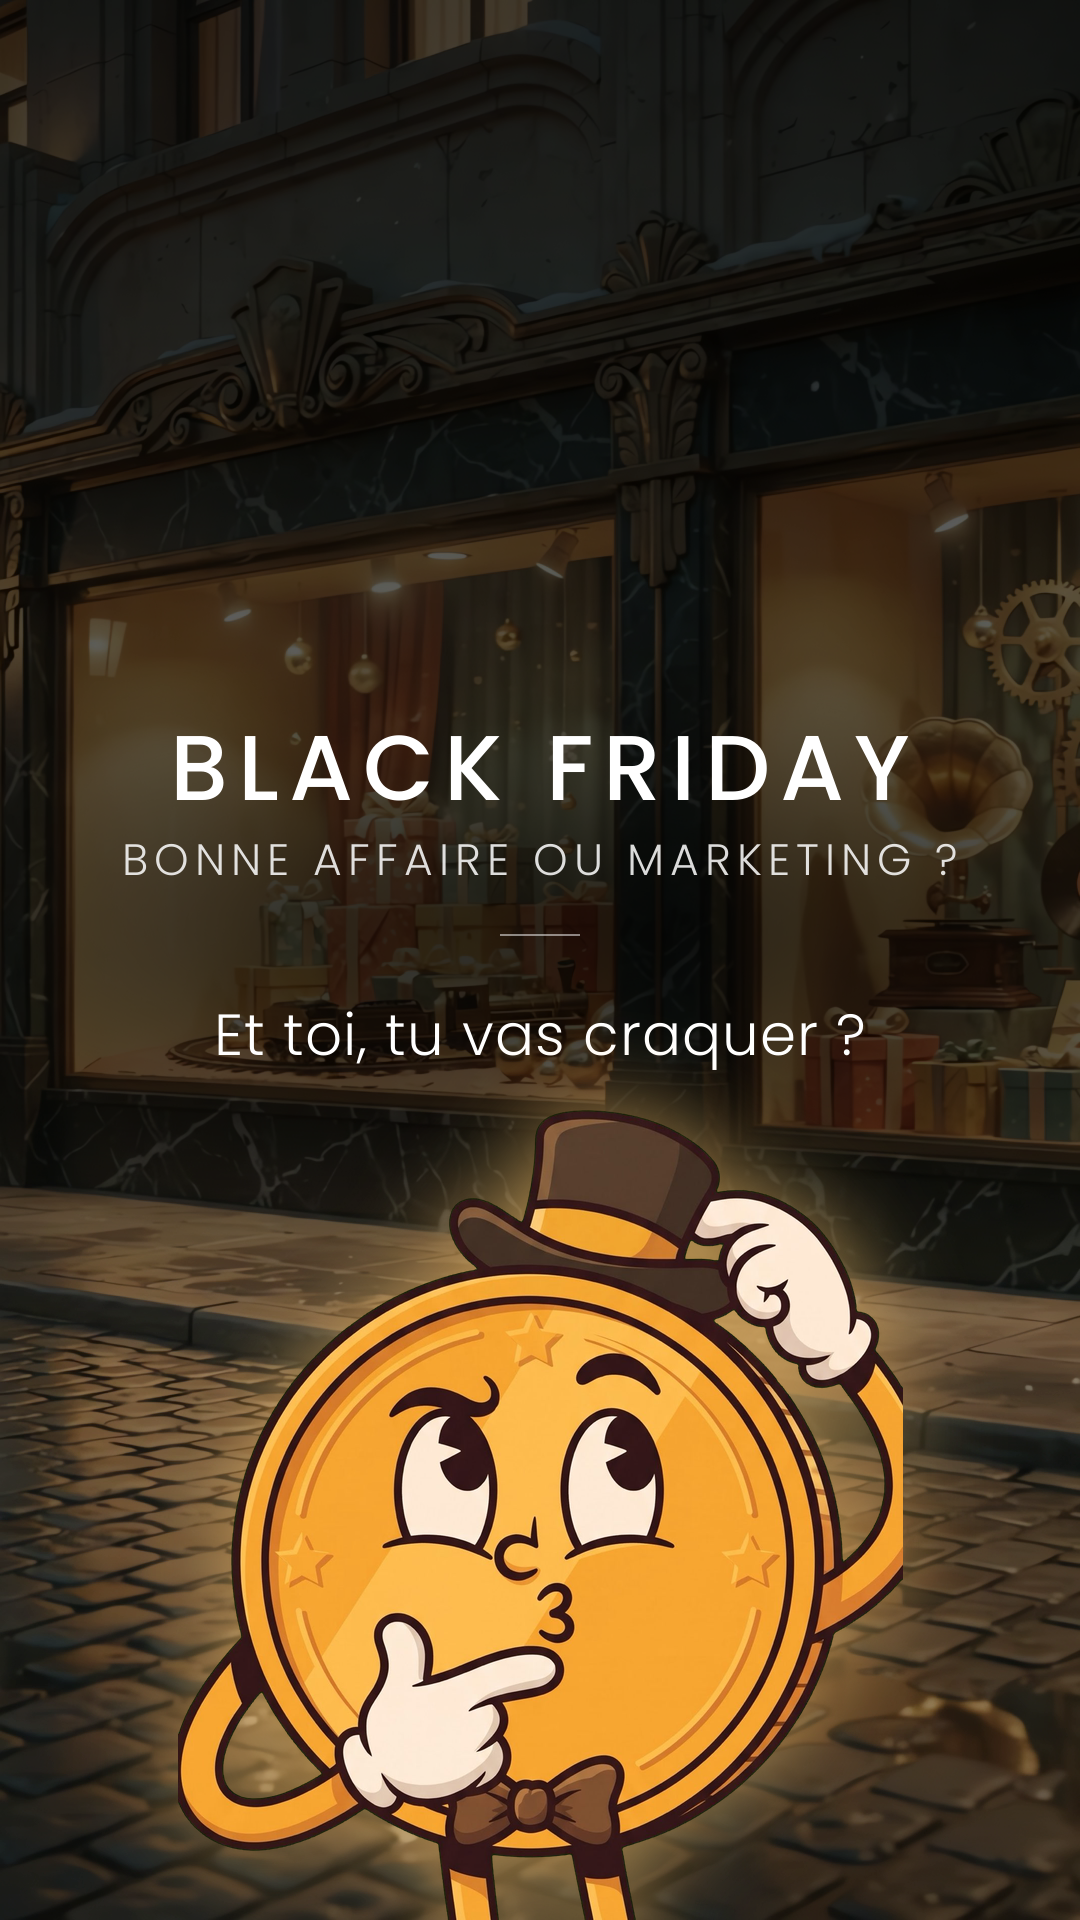
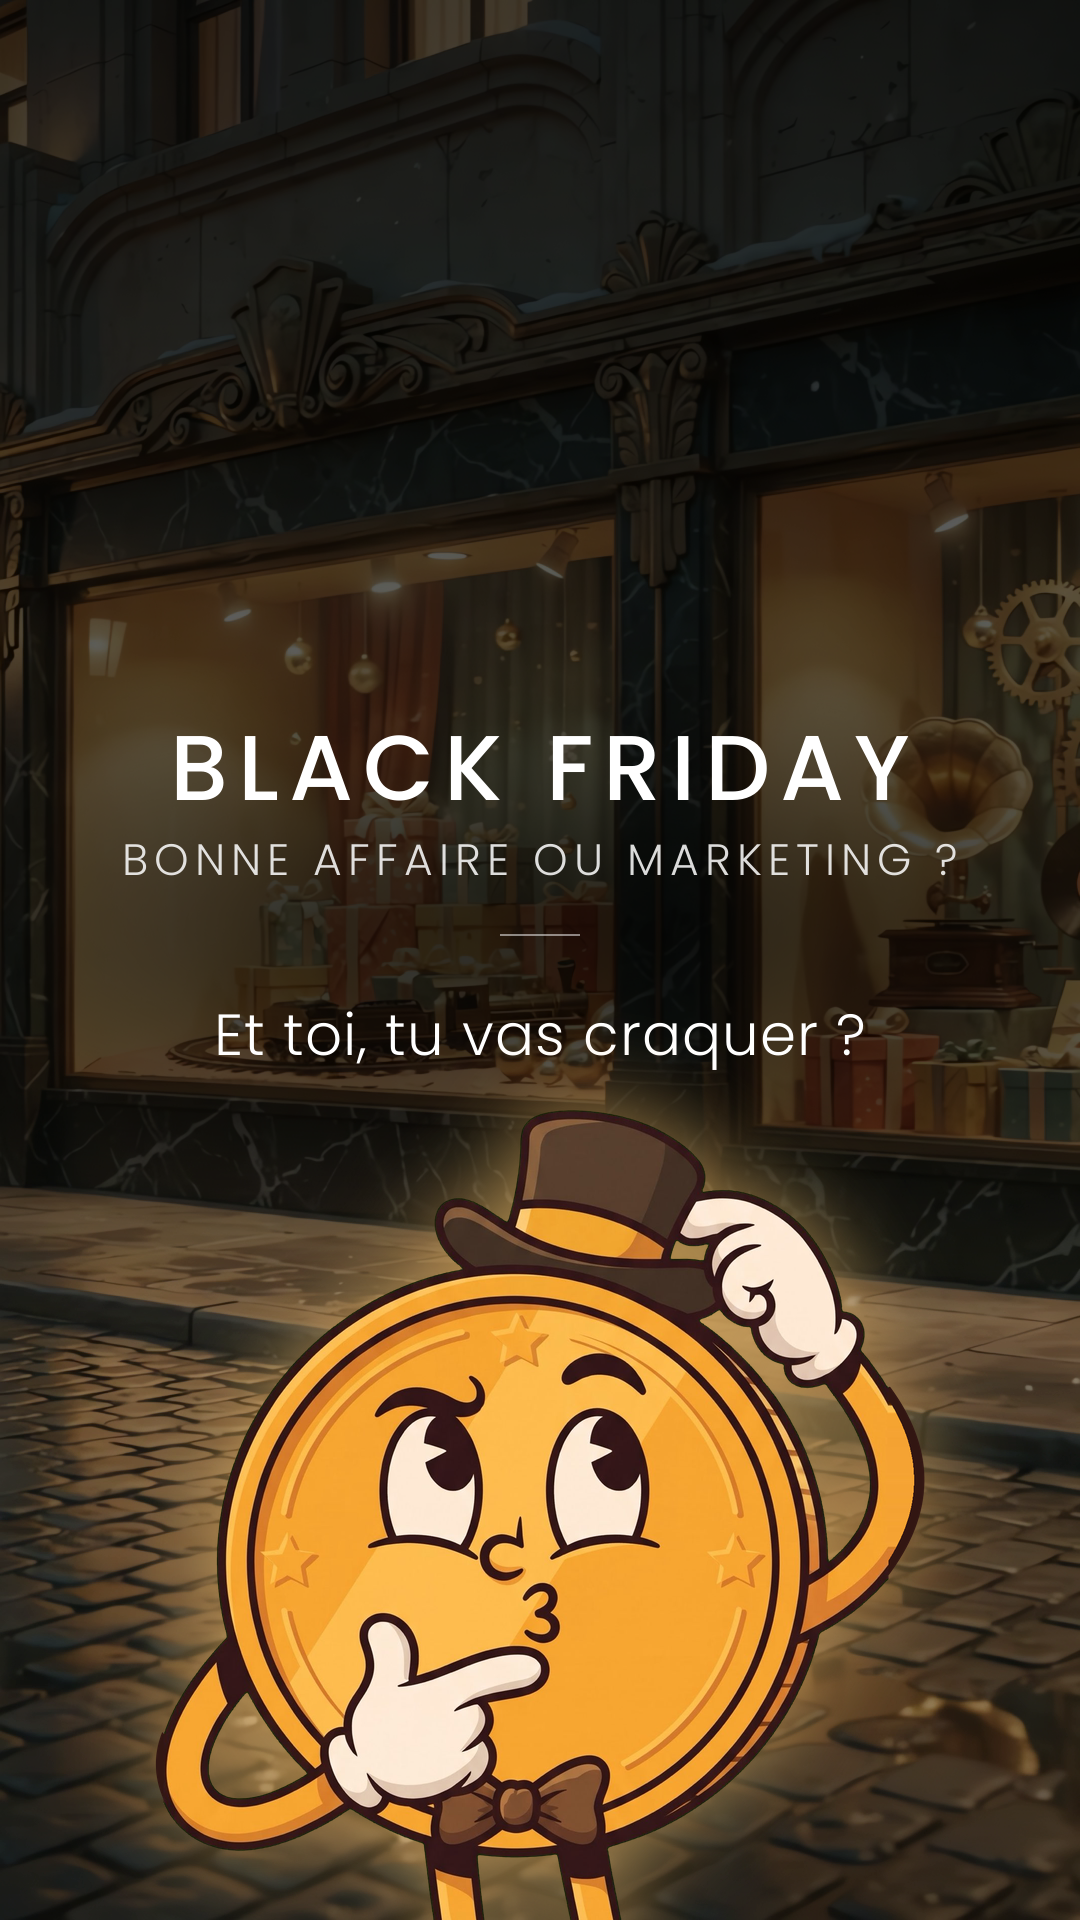
Gros plan « réfléchit » : bras coupés par le cadre Gemini redessinés (mister_coin/prolonge_bord.py), couverture Black Friday mise à jour
Claude-Session: https://claude.ai/code/session_01WbC6ATVQ9ekwYf3mZ5UyiW

Changed region(s): [[0.1222, 0.5625, 0.8556, 1.0]]

diff --git a/mister_coin/prolonge_bord.py b/mister_coin/prolonge_bord.py
@@ -1,0 +1,43 @@
+"""Prolonge un gros plan détouré dont un bras sort du cadre de l'image Gemini (coupé net au bord) : agrandit la toile de M pixels à gauche
+et à droite, puis redessine, rangée par rangée, la partie du bras hors cadre. Le contour extérieur est extrapolé par une parabole calée
+sur le contour visible juste au-dessus et juste au-dessous de la coupe ; le remplissage reprend la couleur du bord, puis le trait sombre.
+python3 mister_coin/prolonge_bord.py mister_coin/gros_plans/couv_<expression>.png"""
+import sys, numpy as np
+from PIL import Image
+M, TRAIT, MARGE = 120, 20, 70
+def runs(col):
+    ys = np.where(col)[0]
+    if not len(ys): return []
+    out, st, pv = [], ys[0], ys[0]
+    for y in ys[1:]:
+        if y != pv+1: out.append((st, pv)); st = y
+        pv = y
+    return out+[(st, pv)]
+def prolonge(p):
+    a = np.asarray(Image.open(p).convert('RGBA')).astype(np.float32); h, w = a.shape[:2]
+    b = np.zeros((h, w+2*M, 4), np.float32); b[:, M:M+w] = a
+    for cote in (+1, -1):
+        bx = M+w-1 if cote > 0 else M                                    # colonne du bord coupé, dans la nouvelle toile
+        for (y0, y1) in runs(b[:, bx, 3] > 128):
+            if y1-y0 < 30: continue
+            # contour extérieur visible juste au-dessus et au-dessous de la coupe
+            pts = []
+            for y in list(range(max(0, y0-MARGE), y0))+list(range(y1+1, min(h, y1+1+MARGE))):
+                xs = np.where(b[y, :, 3] > 128)[0]
+                if not len(xs): continue
+                xe = xs.max() if cote > 0 else xs.min()
+                if abs(xe-bx) < 90: pts.append((y, xe))
+            if len(pts) < 10: continue
+            Y, X = np.array(pts, float).T; c = np.polyfit(Y, X, 2)
+            trait = np.median(b[y1-5:y1+5, bx-TRAIT*cote if cote > 0 else bx, :3], 0) if False else np.array([50, 22, 18], np.float32)
+            for y in range(y0, y1+1):
+                xe = np.polyval(c, y); ext = (xe-bx)*cote                  # avancée du contour au-delà du bord
+                if ext <= 0: continue
+                ext = min(ext, M-2); fill = b[y, bx, :3].copy()
+                for k in range(1, int(np.ceil(ext))+1):
+                    x = bx+cote*k; d = ext-k                               # distance au contour extérieur
+                    colr = trait if d < TRAIT else fill
+                    al = 255*min(1.0, d+1)
+                    b[y, x, :3] = colr; b[y, x, 3] = al
+    Image.fromarray(b.clip(0, 255).astype(np.uint8), 'RGBA').save(p); print('ok', p, b.shape[1], 'px de large')
+if __name__ == '__main__': prolonge(sys.argv[1])
